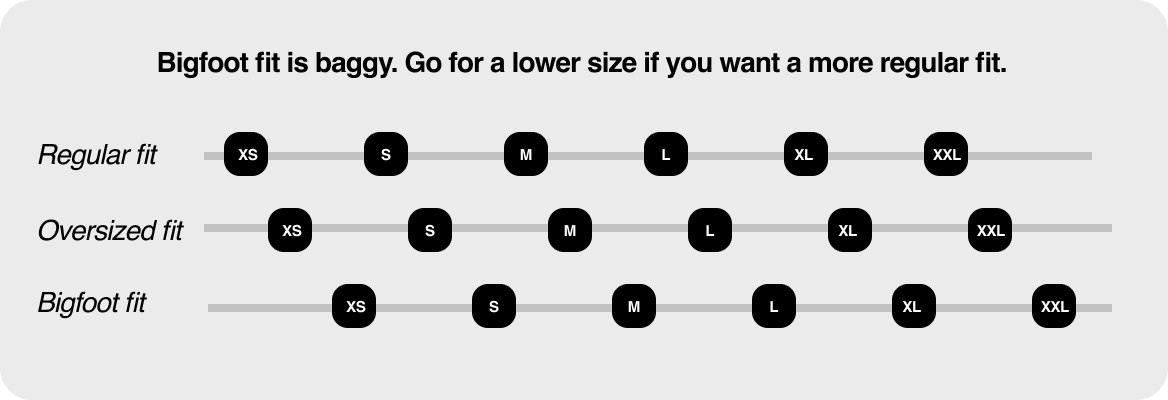
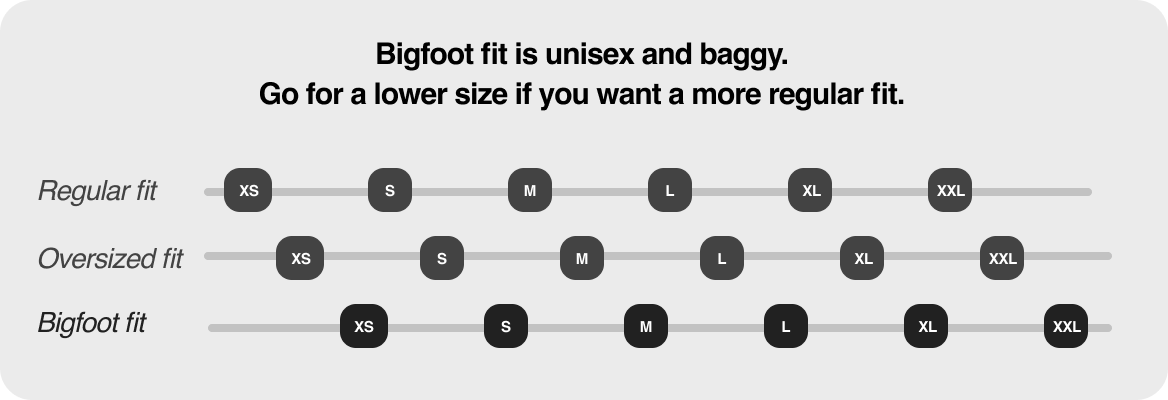
Minor changes to size selection modal

Changed region(s): [[0.0308, 0.33, 0.9555, 0.87], [0.1233, 0.09, 0.863, 0.27], [0.0308, 0.72, 0.1233, 0.84]]

diff --git a/src/components/UIComponents/BuyNowButton.js b/src/components/UIComponents/BuyNowButton.js
@@ -6,6 +6,9 @@ import CheckCircleIcon from '@mui/icons-material/CheckCircle';
 import CloseIcon from '@mui/icons-material/Close';
 import SizeChart from '../SizeChart';
 import ProductPrice from '../ProductPrice';
+import PercentIcon from '@mui/icons-material/Percent';
+import Avatar from '@mui/material/Avatar';
+
 
 const BuyNowButton = ({ color, style, type, data, storage, db, price = 119900 }) => {
   const [buyNowLoading, setBuyNowLoading] = useState(false);
@@ -275,7 +278,7 @@ const BuyNowButton = ({ color, style, type, data, storage, db, price = 119900 })
             <Box sx={{marginY: 4}}>
               <Box sx={{marginBottom: 2}}>
                 <Typography variant="subtitle1" sx={{fontWeight: 800}} >
-                  Select your size (Oversized Fit)
+                  Select your size (Unisex Oversized Fit)
                 </Typography>
                 <SizeChart />
               </Box>
@@ -361,9 +364,30 @@ const BuyNowButton = ({ color, style, type, data, storage, db, price = 119900 })
                     {`Buy Now @ `}
                     <ProductPrice priceInINR={`${Math.ceil(dynamicPrice / 100)}`}  priceInUSD={`${Math.ceil(dynamicPrice / 2000)}`}/>
                   </Typography>
-                  <Typography variant="body2" sx={{ fontWeight: 'bold', textTransform: 'none', color: '#AAAAAA' }}>
-                    Offers available in next step
-                  </Typography>
+                  <Chip
+                    avatar={
+                      <Avatar sx={{ backgroundColor: 'white', color: 'green' }}>
+                        <PercentIcon sx={{fontSize: 16}}/>
+                      </Avatar>
+                    }
+                    label={
+                      <Typography 
+                        variant="subtitle2" 
+                        sx={{ 
+                          fontWeight: 'bold', 
+                          textTransform: 'none', 
+                          color: '#FFFFFF' 
+                        }}
+                      >
+                        Offers available in next step
+                      </Typography>
+                    }
+                    sx={{ 
+                      backgroundColor: '#00ff0040', 
+                      borderRadius: '50px', 
+                      padding: '8px 16px'
+                    }}
+                  />
                 </Box>
               )}
             </Button>
